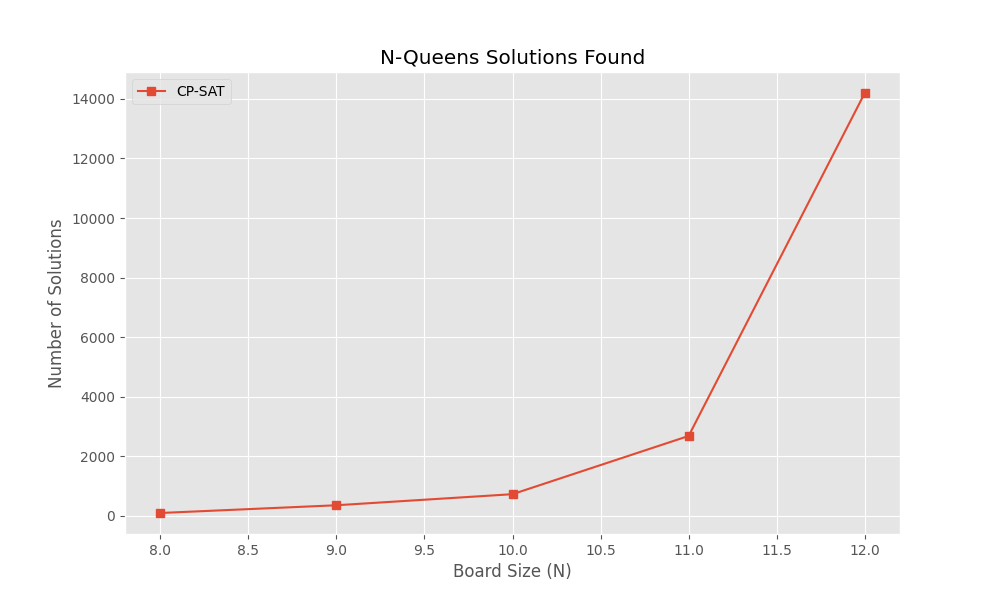
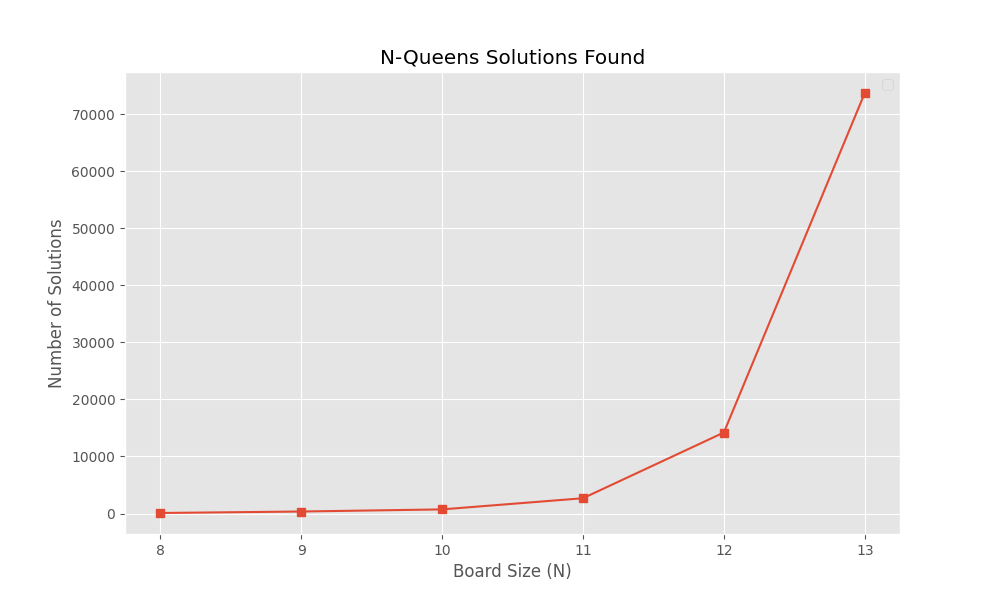
plots

diff --git a/sat/comparison.py b/sat/comparison.py
@@ -10,12 +10,12 @@ def main():
     plt.style.use('ggplot')
     
     # Define board sizes to test
-    sizes = range(8, 13)
+    sizes = range(8, 14)
     
     # Data structures for statistics
     stats = {
-        'original': {'time': [], 'solutions': []},
-        'cp': {'time': [], 'solutions': []}
+        'original': {'time': [], 'solutions': [], 'branches': [], 'failures': []},
+        'cp': {'time': [], 'solutions': [], 'branches': [], 'failures': []}
     }
     
     # Collect data
@@ -31,8 +31,12 @@ def main():
         # Store statistics
         stats['original']['time'].append(orig_time)
         stats['original']['solutions'].append(orig_solutions)
+        stats['original']['branches'].append(orig_branches)
+        stats['original']['failures'].append(orig_failures)
         stats['cp']['time'].append(cp_time)
         stats['cp']['solutions'].append(cp_solutions)
+        stats['cp']['branches'].append(cp_branches)
+        stats['cp']['failures'].append(cp_conflicts)
 
     # Time comparison plot
     plt.figure(figsize=(10, 6))
@@ -48,10 +52,41 @@ def main():
     plt.savefig('pics/time_comparison.png')
     plt.show()
 
+
+    #Failures comparison plot
+    plt.figure(figsize=(10, 6))
+    plt.figure(figsize=(10, 6))
+    plt.plot(sizes[:len(stats['original']['failures'])], 
+             stats['original']['failures'], 'o-', label="Original SAT")
+    plt.plot(sizes[:len(stats['cp']['failures'])], 
+             stats['cp']['failures'], 's-', label="CP-SAT")
+    plt.xlabel("Board Size (N)")
+    plt.ylabel("Time (s)")
+    plt.title("N-Queens Solver Failures Comparison")
+    plt.legend()
+    plt.grid(True)
+    plt.savefig('pics/n_failures_comparison.png')
+    plt.show()
+
+    #branches comparison plot
+    plt.figure(figsize=(10, 6))
+    plt.figure(figsize=(10, 6))
+    plt.plot(sizes[:len(stats['original']['branches'])], 
+             stats['original']['branches'], 'o-', label="Original SAT")
+    plt.plot(sizes[:len(stats['cp']['branches'])], 
+             stats['cp']['branches'], 's-', label="CP-SAT")
+    plt.xlabel("Board Size (N)")
+    plt.ylabel("Time (s)")
+    plt.title("N-Queens Solver Branches Comparison")
+    plt.legend()
+    plt.grid(True)
+    plt.savefig('pics/n_branches_comparison.png')
+    plt.show()
+
     #no. solutions cp-sat solver
     plt.figure(figsize=(10, 6))
     plt.plot(sizes[:len(stats['cp']['solutions'])], 
-             stats['cp']['solutions'], 's-', label="CP-SAT")
+             stats['cp']['solutions'], 's-')
     plt.xlabel("Board Size (N)")
     plt.ylabel("Number of Solutions")
     plt.title("N-Queens Solutions Found")
